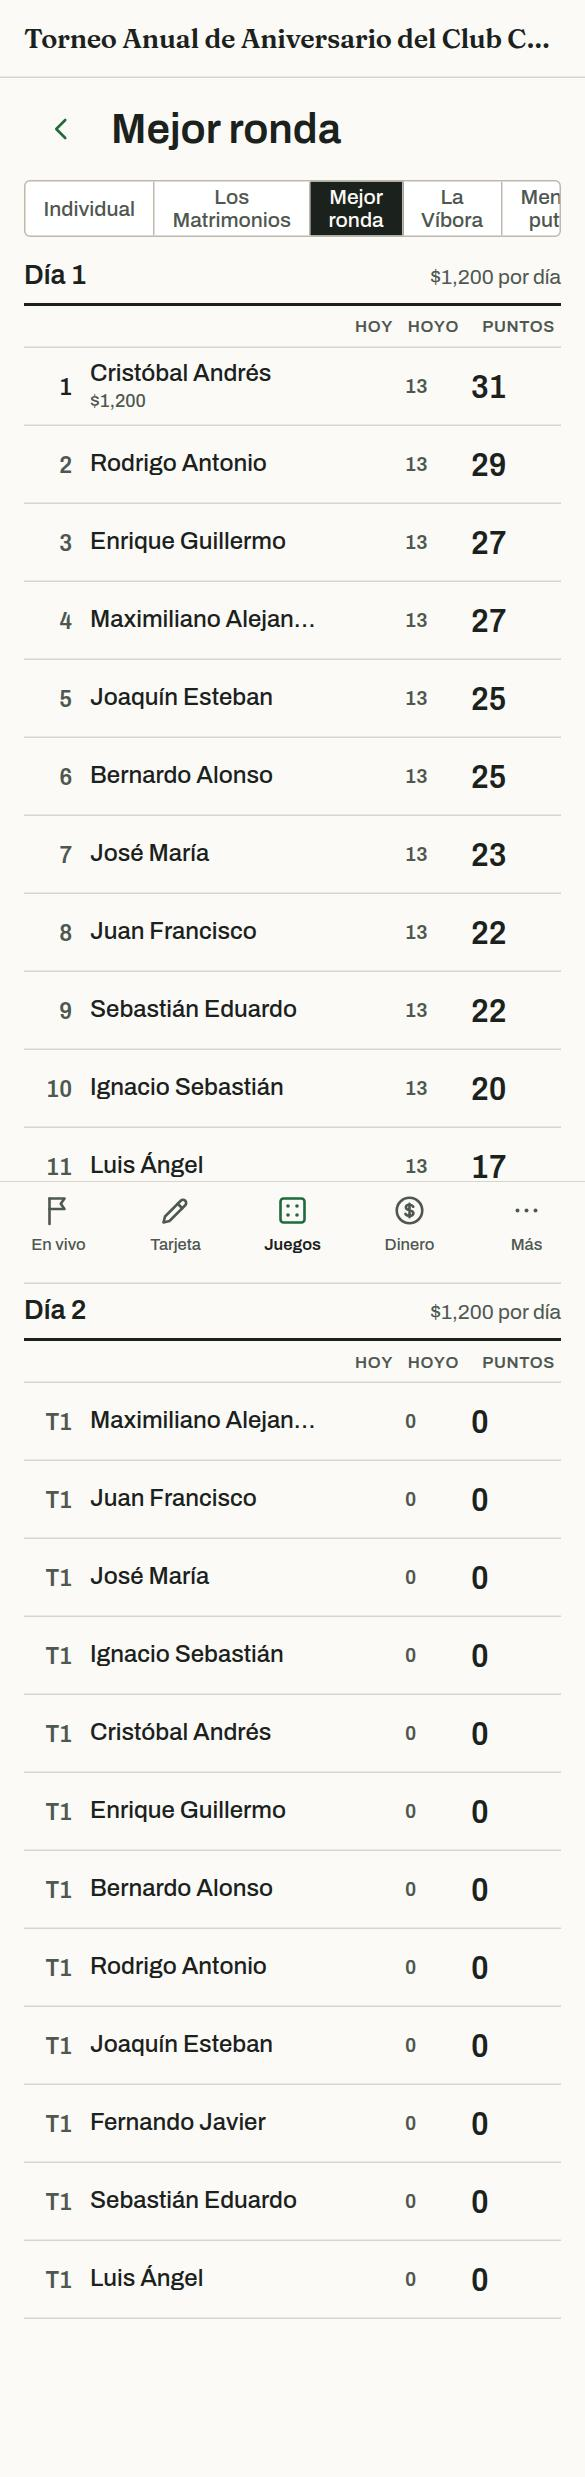
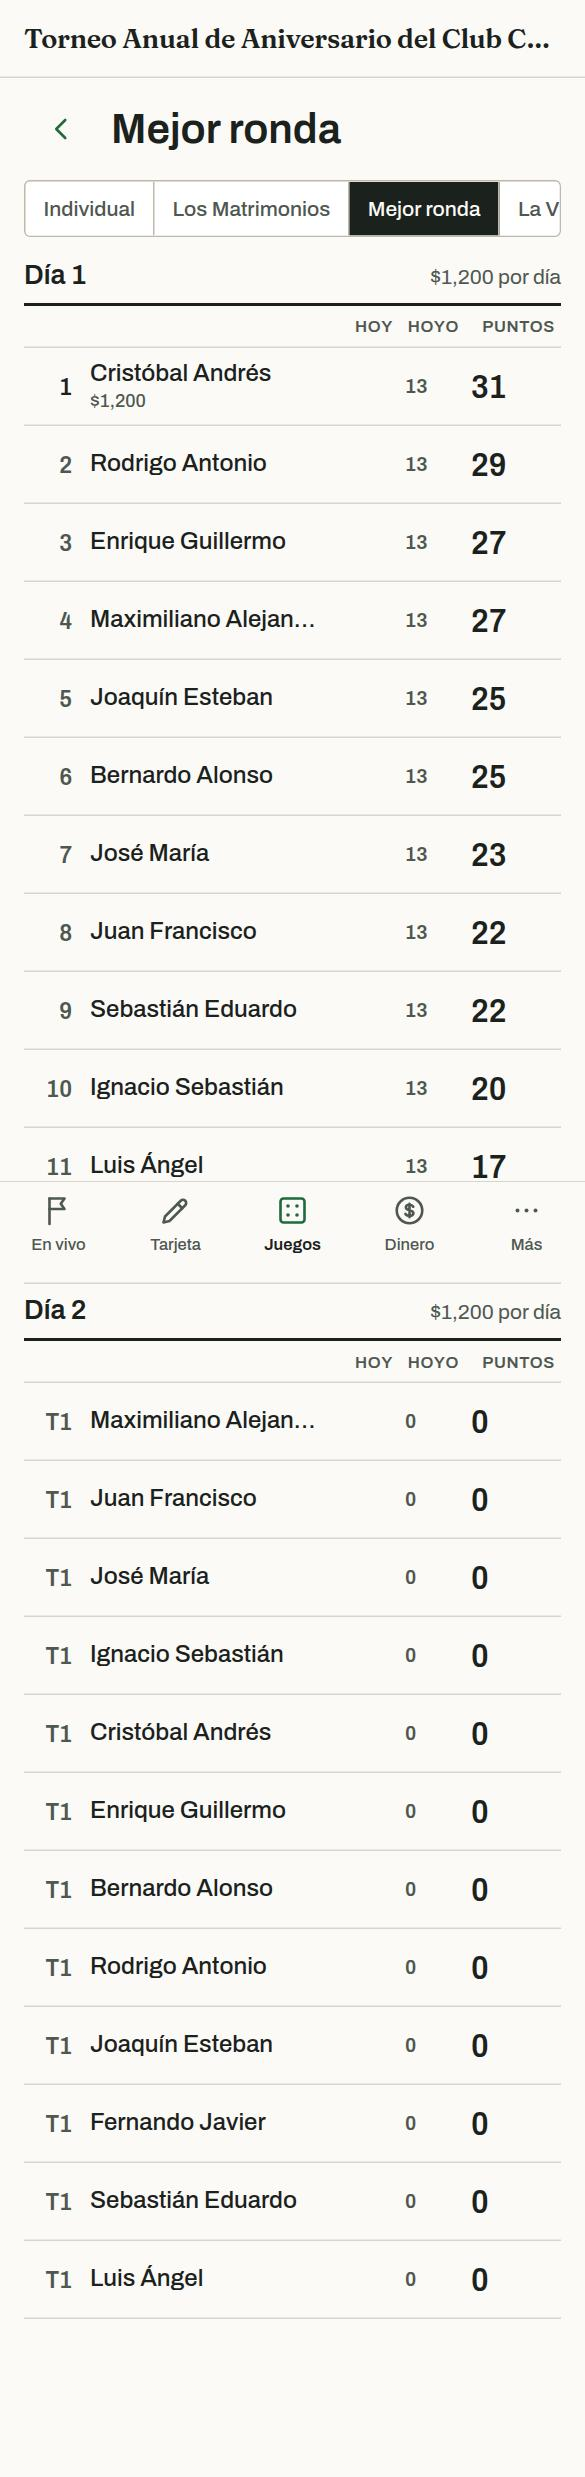
design(phase 3): Juegos and Jugador: one line per game, boards on the primitives, scorecard sheet
Juegos opens on one ruled row per enabled game (label, who leads with
what figure, what is at stake); a game opens on the same Board/LeaderRow
as En vivo with money on the sub line, tabs that scroll instead of
wrapping, countback as "Desempate" triggers. The Calcutta is a statement:
pot as one large figure, slots as ruled rows, owners with value, invested
and return on one line. La Vibora: ruled blocks per group, state on the
right, holder marked in the event accent with a 250 ms tween.
Jugador: position line, handicap as one sentence with its explanation,
each round on ScorecardGrid (notation, putts and points rows, tap a hole
for its breakdown), pair, owners, money and stats as ruled sections.
ScorecardGrid gains putts/showPutts/onHole; HowCalculated drops inline
styles and exports ExplanationSheet; the segmented control scrolls.
Smoke test nudges strokes down when it can and up otherwise. Shots
script walks the Juegos overview and the new leaderboard rows.

Claude-Session: https://claude.ai/code/session_01KQz1z9pMpbMPdudJXasscZ

Changed region(s): [[0.3077, 0.0622, 0.8615, 0.0933], [0.8923, 0.0622, 0.9538, 0.0933]]

diff --git a/design/shots/after/index.md b/design/shots/after/index.md
@@ -1,7 +1,9 @@
 # after shots
 
-<<<<<<< HEAD
-- [full12-live--live.jpg](./full12-live--live.jpg)
+- [minimal4-setup--live--player-sheet.jpg](./minimal4-setup--live--player-sheet.jpg)
+- [minimal4-setup--juegos.jpg](./minimal4-setup--juegos.jpg)
+- [minimal4-live--live--player-sheet.jpg](./minimal4-live--live--player-sheet.jpg)
+- [minimal4-live--juegos.jpg](./minimal4-live--juegos.jpg)
 - [full12-live--live--player-sheet.jpg](./full12-live--live--player-sheet.jpg)
 - [full12-live--juegos.jpg](./full12-live--juegos.jpg)
 - [full12-live--juegos--individual.jpg](./full12-live--juegos--individual.jpg)
@@ -10,20 +12,29 @@
 - [full12-live--juegos--la-v-bora.jpg](./full12-live--juegos--la-v-bora.jpg)
 - [full12-live--juegos--menos-putts.jpg](./full12-live--juegos--menos-putts.jpg)
 - [full12-live--juegos--la-calcutta.jpg](./full12-live--juegos--la-calcutta.jpg)
-- [full12-live--live--desktop.jpg](./full12-live--live--desktop.jpg)
-=======
-- [minimal4-setup--tarjeta.jpg](./minimal4-setup--tarjeta.jpg)
-- [minimal4-setup--tarjeta--grid.jpg](./minimal4-setup--tarjeta--grid.jpg)
-- [minimal4-live--tarjeta.jpg](./minimal4-live--tarjeta.jpg)
-- [minimal4-live--tarjeta--grid.jpg](./minimal4-live--tarjeta--grid.jpg)
-- [full12-live--tarjeta.jpg](./full12-live--tarjeta.jpg)
-- [full12-live--tarjeta--grid.jpg](./full12-live--tarjeta--grid.jpg)
-- [full12-finished--tarjeta.jpg](./full12-finished--tarjeta.jpg)
-- [full12-finished--tarjeta--grid.jpg](./full12-finished--tarjeta--grid.jpg)
-- [pairs8--tarjeta.jpg](./pairs8--tarjeta.jpg)
-- [pairs8--tarjeta--grid.jpg](./pairs8--tarjeta--grid.jpg)
-- [large60--tarjeta.jpg](./large60--tarjeta.jpg)
-- [large60--tarjeta--grid.jpg](./large60--tarjeta--grid.jpg)
-- [longnames--tarjeta.jpg](./longnames--tarjeta.jpg)
-- [longnames--tarjeta--grid.jpg](./longnames--tarjeta--grid.jpg)
->>>>>>> origin/main
+- [full12-finished--live--player-sheet.jpg](./full12-finished--live--player-sheet.jpg)
+- [full12-finished--juegos.jpg](./full12-finished--juegos.jpg)
+- [full12-finished--juegos--individual.jpg](./full12-finished--juegos--individual.jpg)
+- [full12-finished--juegos--los-matrimonios.jpg](./full12-finished--juegos--los-matrimonios.jpg)
+- [full12-finished--juegos--mejor-ronda.jpg](./full12-finished--juegos--mejor-ronda.jpg)
+- [full12-finished--juegos--la-v-bora.jpg](./full12-finished--juegos--la-v-bora.jpg)
+- [full12-finished--juegos--menos-putts.jpg](./full12-finished--juegos--menos-putts.jpg)
+- [full12-finished--juegos--la-calcutta.jpg](./full12-finished--juegos--la-calcutta.jpg)
+- [pairs8--live--player-sheet.jpg](./pairs8--live--player-sheet.jpg)
+- [pairs8--juegos.jpg](./pairs8--juegos.jpg)
+- [pairs8--juegos--individual.jpg](./pairs8--juegos--individual.jpg)
+- [pairs8--juegos--parejas.jpg](./pairs8--juegos--parejas.jpg)
+- [pairs8--juegos--mejor-ronda.jpg](./pairs8--juegos--mejor-ronda.jpg)
+- [large60--live--player-sheet.jpg](./large60--live--player-sheet.jpg)
+- [large60--juegos.jpg](./large60--juegos.jpg)
+- [large60--juegos--individual.jpg](./large60--juegos--individual.jpg)
+- [large60--juegos--la-v-bora.jpg](./large60--juegos--la-v-bora.jpg)
+- [large60--juegos--menos-putts.jpg](./large60--juegos--menos-putts.jpg)
+- [longnames--live--player-sheet.jpg](./longnames--live--player-sheet.jpg)
+- [longnames--juegos.jpg](./longnames--juegos.jpg)
+- [longnames--juegos--individual.jpg](./longnames--juegos--individual.jpg)
+- [longnames--juegos--los-matrimonios.jpg](./longnames--juegos--los-matrimonios.jpg)
+- [longnames--juegos--mejor-ronda.jpg](./longnames--juegos--mejor-ronda.jpg)
+- [longnames--juegos--la-v-bora.jpg](./longnames--juegos--la-v-bora.jpg)
+- [longnames--juegos--menos-putts.jpg](./longnames--juegos--menos-putts.jpg)
+- [longnames--juegos--la-calcutta.jpg](./longnames--juegos--la-calcutta.jpg)

diff --git a/DESIGN_NOTES.md b/DESIGN_NOTES.md
@@ -47,6 +47,16 @@ Decisions and rationale for the visual overhaul, so later passes stay consistent
 - Grid view is the classic card: holes down (1 to 18 regardless of the group's start hole), par and SI columns, players across with the pencil notation on gross and the points beneath, Ida, Vuelta and Total rows with points and gross, a dash for missing holes, the current hole marked. The first column is pinned on horizontal scroll.
 - The engine's net-score names use golf English ("eagle neto"); the screen shows "águila" through a one-line display mapping. The engine is unchanged.
 
+## Phase 3, PR 4: Juegos and Jugador (2026-09-28)
+
+- Juegos opens on one ruled row per enabled game: the label, who leads and with what figure, and what is at stake on the right (first prize, per day, per group, or the Calcutta pot). Tapping a row opens that game; the game tabs scroll and never wrap.
+- Every standings table (individual, pairs, best round per day, fewest putts) is the same `Board` / `LeaderRow` as En vivo, with money on the sub line. Countback explanations sit under the individual board as "Desempate" triggers.
+- The Calcutta is a statement: the pot as one large figure, the five slots as ruled rows with the amount as the "how" trigger, and owners with value, invested and return on one line each.
+- La Víbora: per day and group, a ruled block with the state on the right (in play with the pot, pending in the caution color, settled), four compact player cells with the holder marked by the snake in the event accent (a 250 ms tween, no spring), passes as a numbered list.
+- Jugador: name, tier and "1º, 60 pts, por el 29" on one line; the handicap as one sentence with its explanation; each round on `ScorecardGrid` (notation on gross, putts and points rows, Ida/Vuelta/Total) where tapping a hole opens that hole's breakdown; pair, owners, money and stats as ruled sections.
+- `ScorecardGrid` gained `putts`, `showPutts` and `onHole`; `HowCalculated` lost its inline styles and exports a controlled `ExplanationSheet`.
+- `e2e/smoke.mjs` nudges the first player's strokes down when it can and up otherwise, so repeated runs on the Ensayo stop bottoming out.
+
 ## Terms (decided once; `src/i18n/es-MX.ts` follows them)
 
 | Concept | Term | Not |
